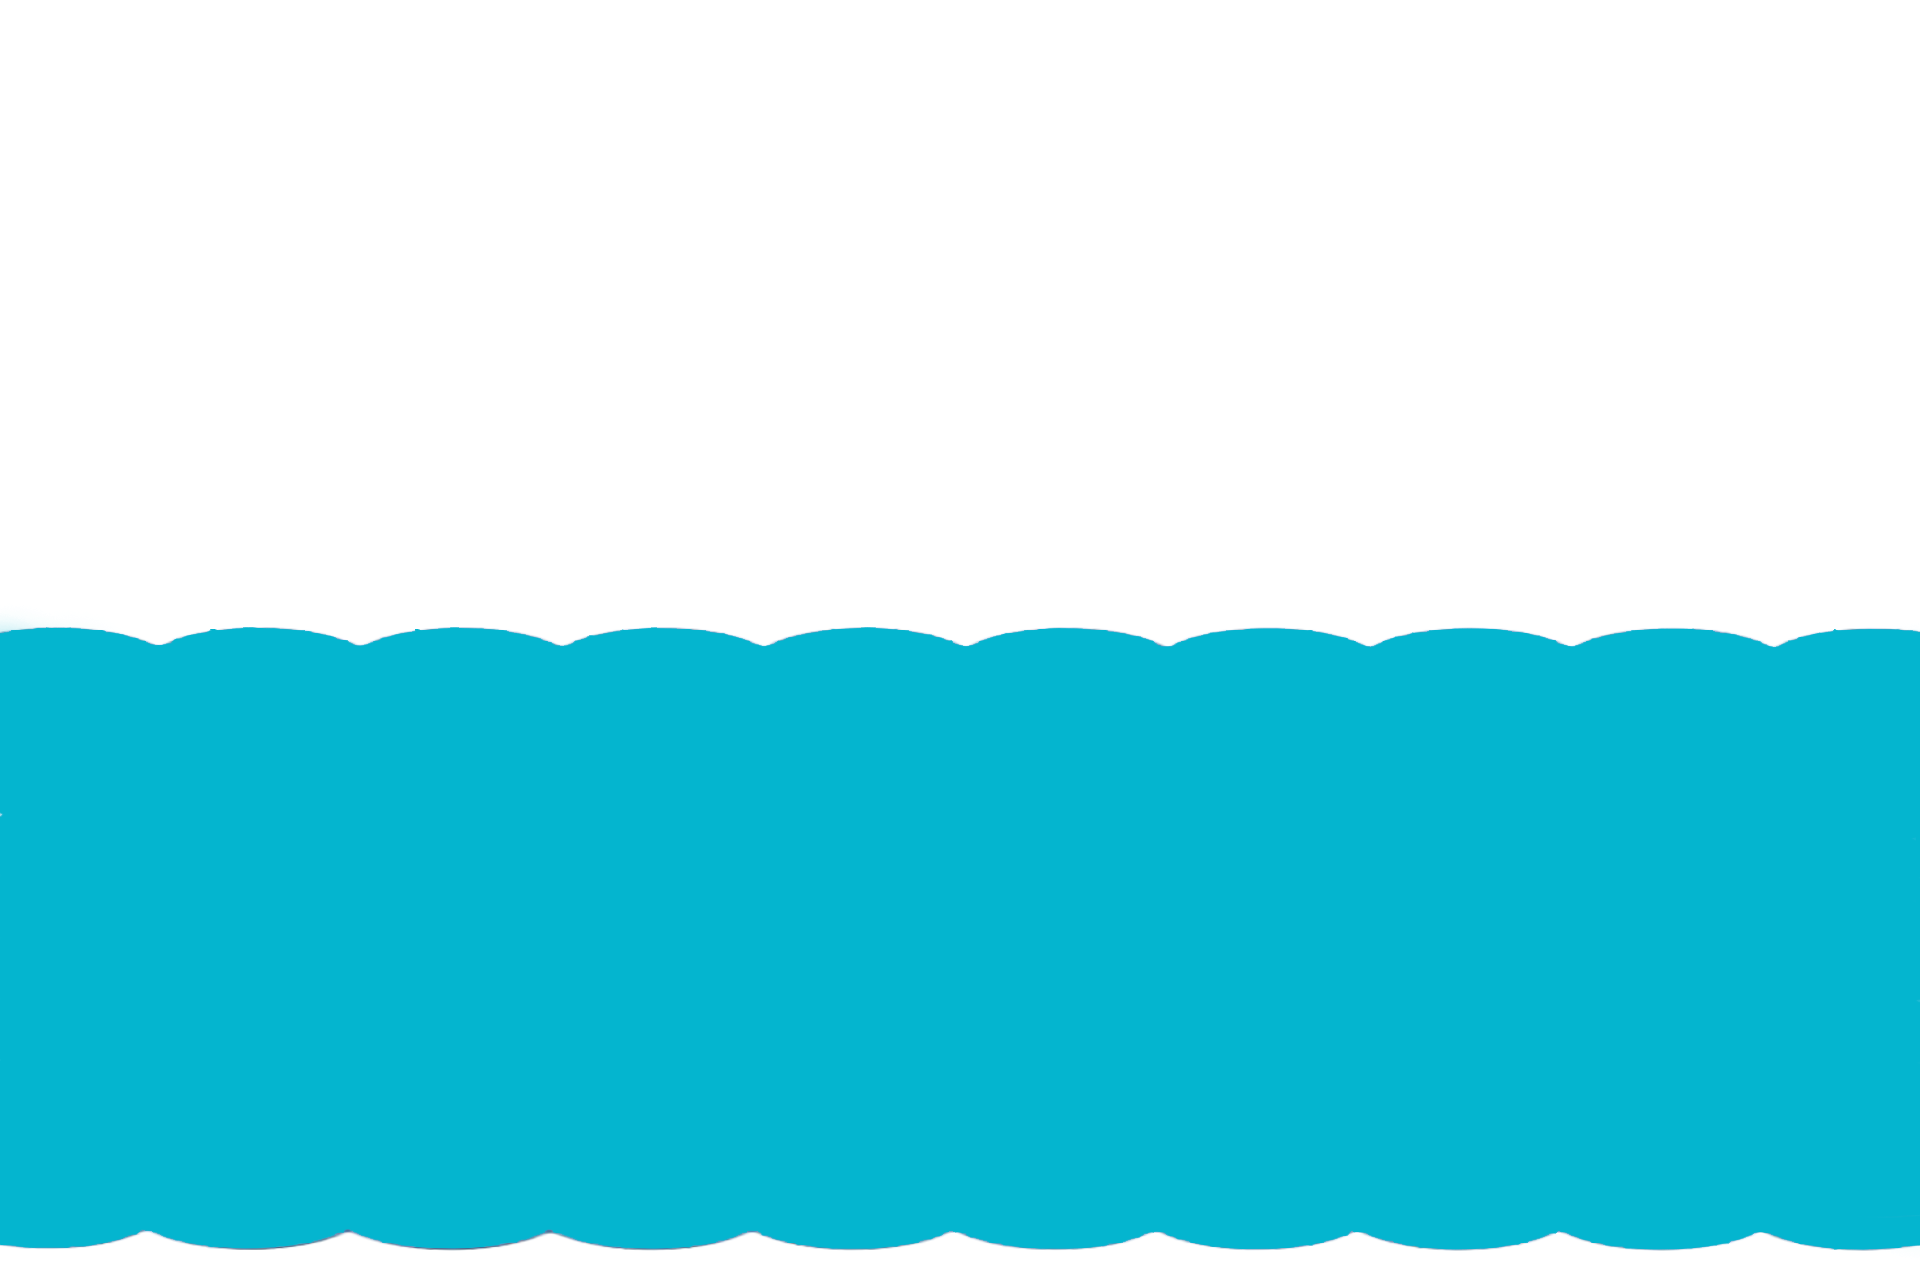
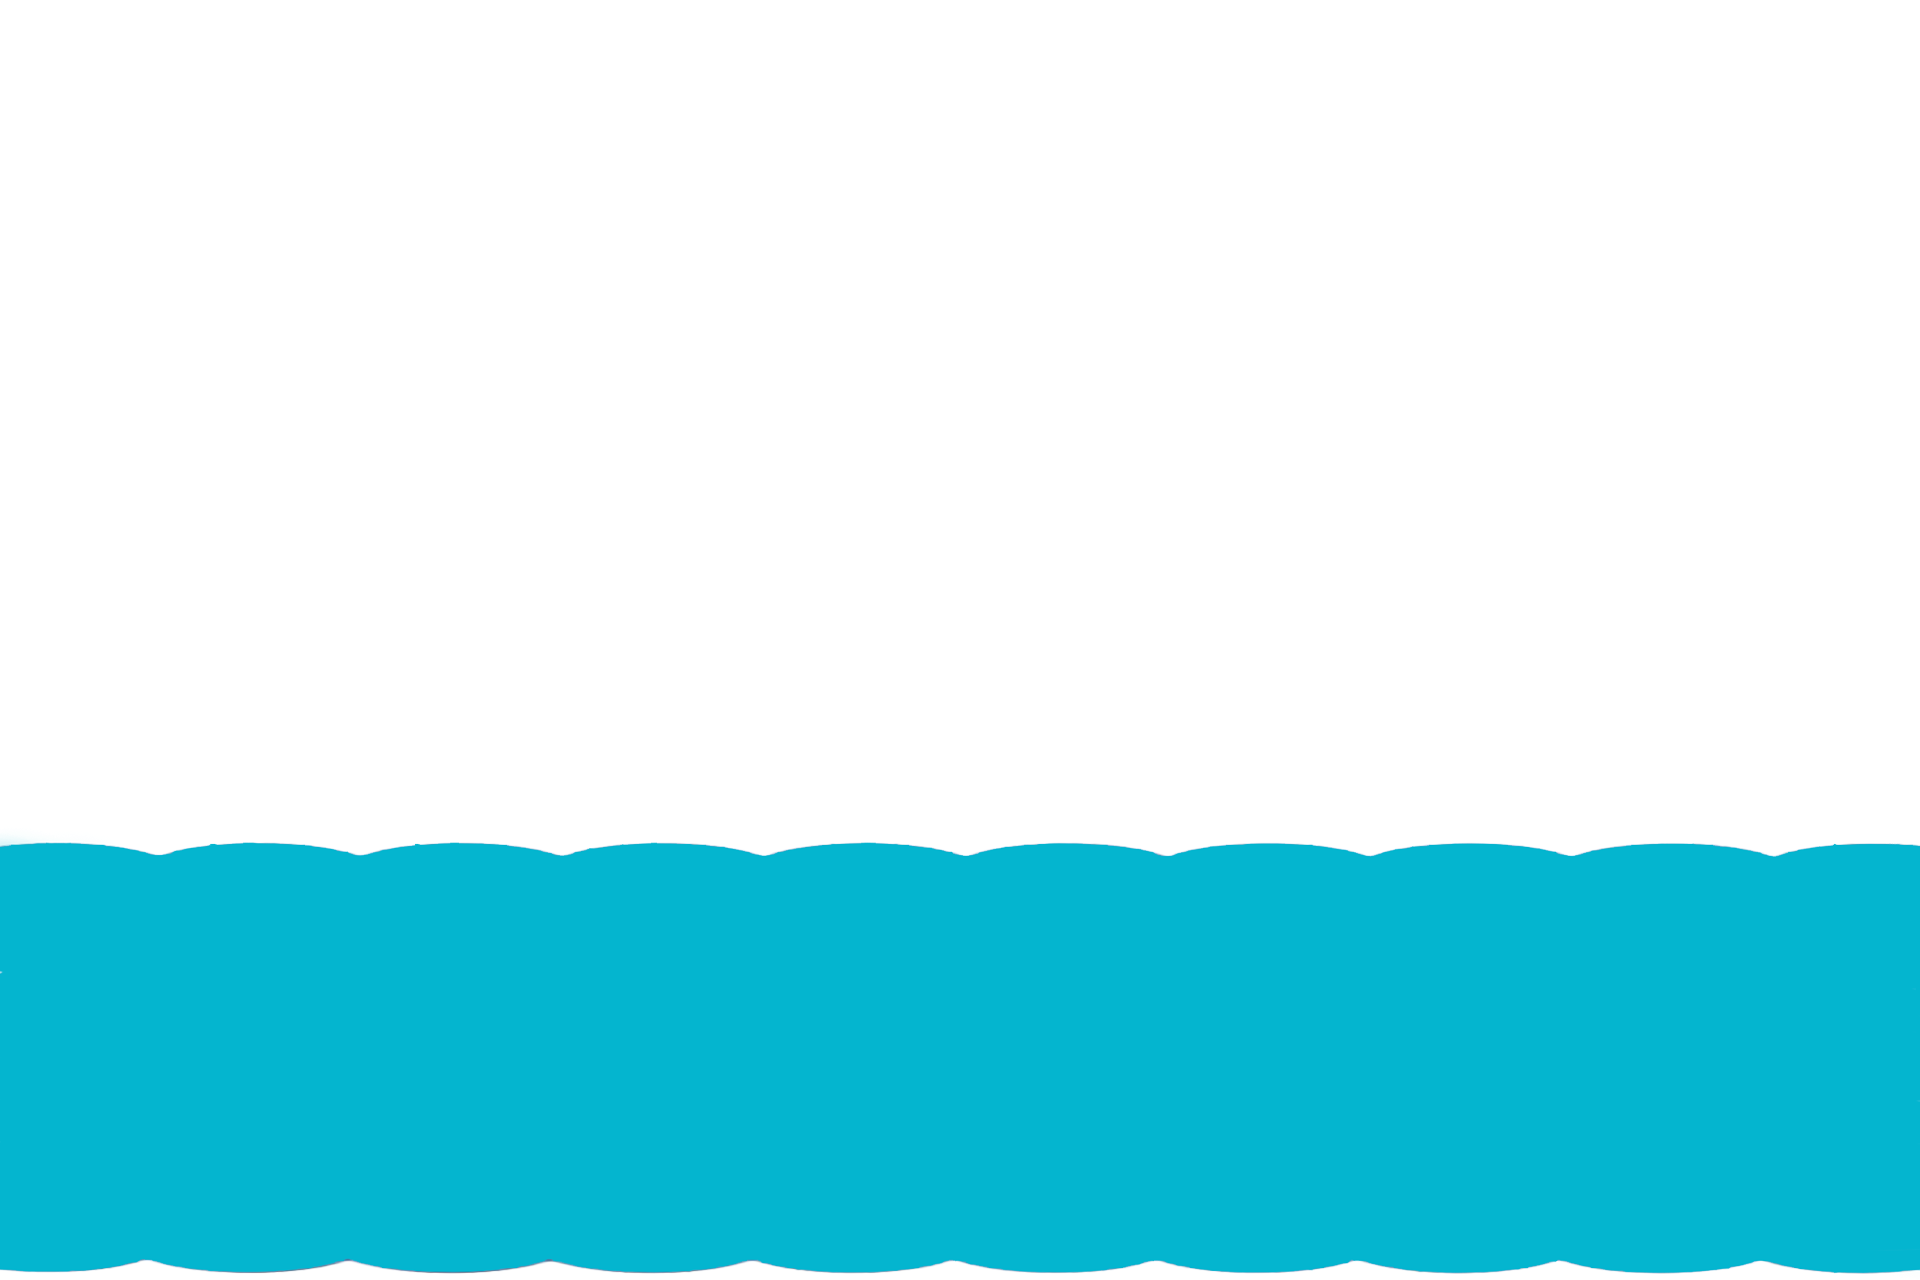
v11

Changed region(s): [[0.0, 0.4688, 1.0, 0.6875], [0.0, 0.9375, 1.0, 1.0]]

diff --git a/style.css b/style.css
@@ -110,7 +110,6 @@ body {
     font-size: 3vh;
     text-align: center;
     color: #00b4ce;
-    text-shadow: 1px 1px 2px rgb(0, 0, 0);
   }
 
   .advantage_card span {
@@ -206,7 +205,6 @@ body {
   }
 
   .price_card_img_wrapper {
-    box-shadow: 20px 20px 30px rgba(0, 0, 0, 0.637);
     text-align: center;
     font-size: 5vh;
   }
@@ -352,7 +350,6 @@ body {
 
   .examples_img {
     width: 100%;
-    box-shadow: 20px 10px 10px rgb(0, 0, 0);
   }
 
 /********************/
@@ -868,6 +865,12 @@ body {
   /********************/
   /* Первая страница */
   /********************/
+  
+  header {
+    background-image: url("img/banner-wave-phone.png");
+    padding-bottom: 15px;
+    }
+
   .header_banner {
     margin-top: 30px;
     width: 100%;
@@ -879,16 +882,16 @@ body {
 
   .header_contact {
     width: 30%;
-    top: 10vh;
-    right: 5vh;
+    top: 8vh;
+    right: 2vh;
   }
   
   h1 {
-    font-size: 5vh;
+    font-size: 4vh;
   }
 
   header span {
-    font-size: 3vh;
+    font-size: 2vh;
   }
   
   /********************/
